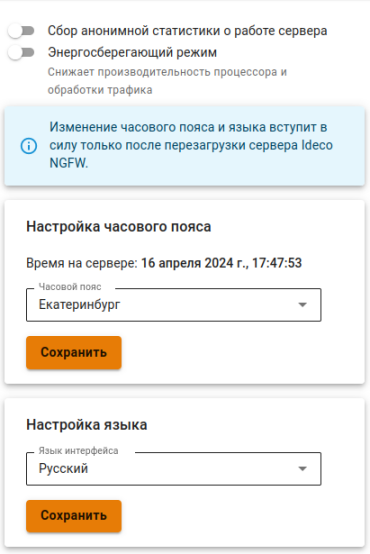
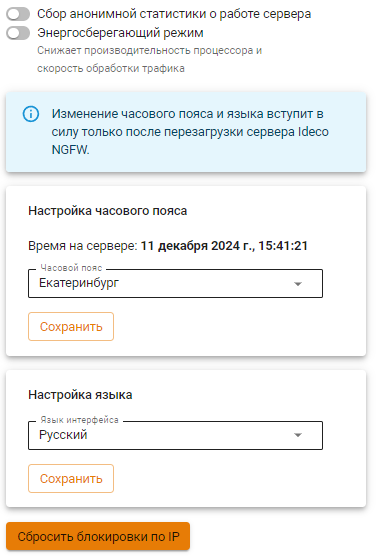
ICS-42057 УТМ. Добавить информацию о кнопке сброса fail2ban

Changed region(s): [[0.0, 0.0, 1.0, 1.0]]

diff --git a/settings/server-management/additionally.md b/settings/server-management/additionally.md
@@ -16,8 +16,9 @@ description: Настройка часового пояса и сбор анон
 
 ![](/.gitbook/assets/additionally1.png)
 
-* **Энергосберегающий режим** - включение этого режима снижает производительность процессора и обработки трафика.
-* **Настройка часового пояса** - установите часовой пояс для корректного сбора логов и статистики.
-* **Сбор анонимной статистики о работе сервера** - включение этого параметра разрешает серверу отправлять информацию об используемых модулях. При этом не отправляется информация о пользователях, проходящем через сервер трафике, сетевых интерфейсах и идентификаторах сервера и лицензии.
-
-
+* **Настройка часового пояса** - установите часовой пояс для корректного сбора логов и статистики;
+* **Сбор анонимной статистики о работе сервера** - включение этого параметра разрешает серверу отправлять информацию об используемых модулях. При этом не отправляется информация о пользователях, проходящем через сервер трафике, сетевых интерфейсах и идентификаторах сервера и лицензии;
+* **Энергосберегающий режим** - включение этого режима снижает производительность процессора и обработки трафика;
+* **Настройка часового пояса** - установите часовой пояс для корректного сбора логов и статистики;
+* **Настройка языка** - укажите язык, удобный для работы в веб-интерфейсе;
+* **Сбросить блокировки по IP** - используйте для сброса всех заблокированных IP-адресов. Если требуется разблокировать какой-то конкретный IP-адрес, воспользуйтесь командой `fail2ban-client unban <IP-адрес>` в терминале.
